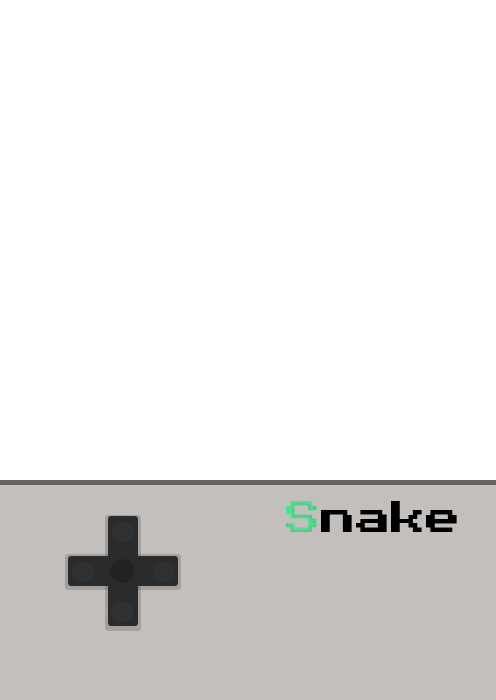
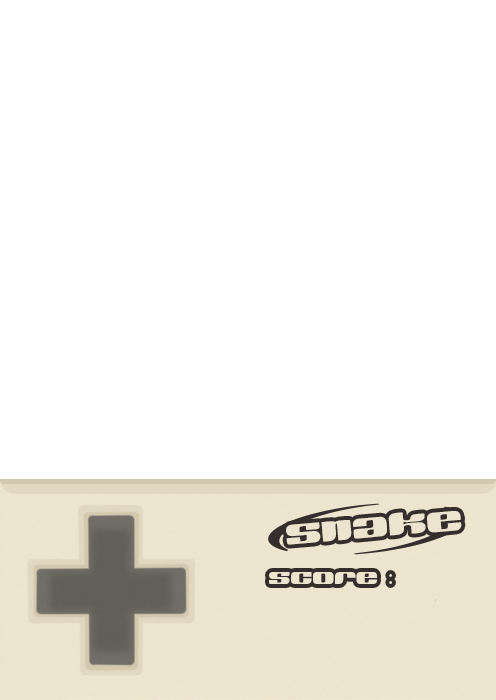
UItest

diff --git a/SnakeGame/Form1.Designer.cs b/SnakeGame/Form1.Designer.cs
@@ -29,12 +29,14 @@
         private void InitializeComponent()
         {
             components = new System.ComponentModel.Container();
+            System.ComponentModel.ComponentResourceManager resources = new System.ComponentModel.ComponentResourceManager(typeof(Form1));
             snake = new PictureBox();
             timer = new System.Windows.Forms.Timer(components);
             buttonRight = new Button();
             buttonLeft = new Button();
             buttonUp = new Button();
             buttonDown = new Button();
+            panel1 = new Panel();
             ((System.ComponentModel.ISupportInitialize)snake).BeginInit();
             SuspendLayout();
             // 
@@ -84,17 +86,28 @@
             buttonDown.TabStop = false;
             buttonDown.UseVisualStyleBackColor = true;
             // 
+            // panel1
+            // 
+            panel1.BackgroundImage = (Image)resources.GetObject("panel1.BackgroundImage");
+            panel1.Enabled = false;
+            panel1.Location = new Point(0, 0);
+            panel1.Name = "panel1";
+            panel1.Size = new Size(496, 20);
+            panel1.TabIndex = 5;
+            // 
             // Form1
             // 
             AutoScaleDimensions = new SizeF(7F, 15F);
             AutoScaleMode = AutoScaleMode.Font;
-            BackgroundImage = Properties.Resources.GameBoy;
+            BackgroundImage = Properties.Resources.GameBoy1;
             ClientSize = new Size(609, 641);
+            Controls.Add(panel1);
             Controls.Add(buttonDown);
             Controls.Add(buttonUp);
             Controls.Add(buttonLeft);
             Controls.Add(buttonRight);
             Controls.Add(snake);
+            FormBorderStyle = FormBorderStyle.None;
             Name = "Form1";
             Text = "Form1";
             ((System.ComponentModel.ISupportInitialize)snake).EndInit();
@@ -109,5 +122,6 @@
         private Button buttonLeft;
         private Button buttonUp;
         private Button buttonDown;
+        private Panel panel1;
     }
 }

diff --git a/SnakeGame/Properties/Resources.Designer.cs b/SnakeGame/Properties/Resources.Designer.cs
@@ -73,6 +73,16 @@ namespace SnakeGame.Properties {
         /// <summary>
         ///   Поиск локализованного ресурса типа System.Drawing.Bitmap.
         /// </summary>
+        internal static System.Drawing.Bitmap GameBoy1 {
+            get {
+                object obj = ResourceManager.GetObject("GameBoy1", resourceCulture);
+                return ((System.Drawing.Bitmap)(obj));
+            }
+        }
+        
+        /// <summary>
+        ///   Поиск локализованного ресурса типа System.Drawing.Bitmap.
+        /// </summary>
         internal static System.Drawing.Bitmap snakeHead {
             get {
                 object obj = ResourceManager.GetObject("snakeHead", resourceCulture);
